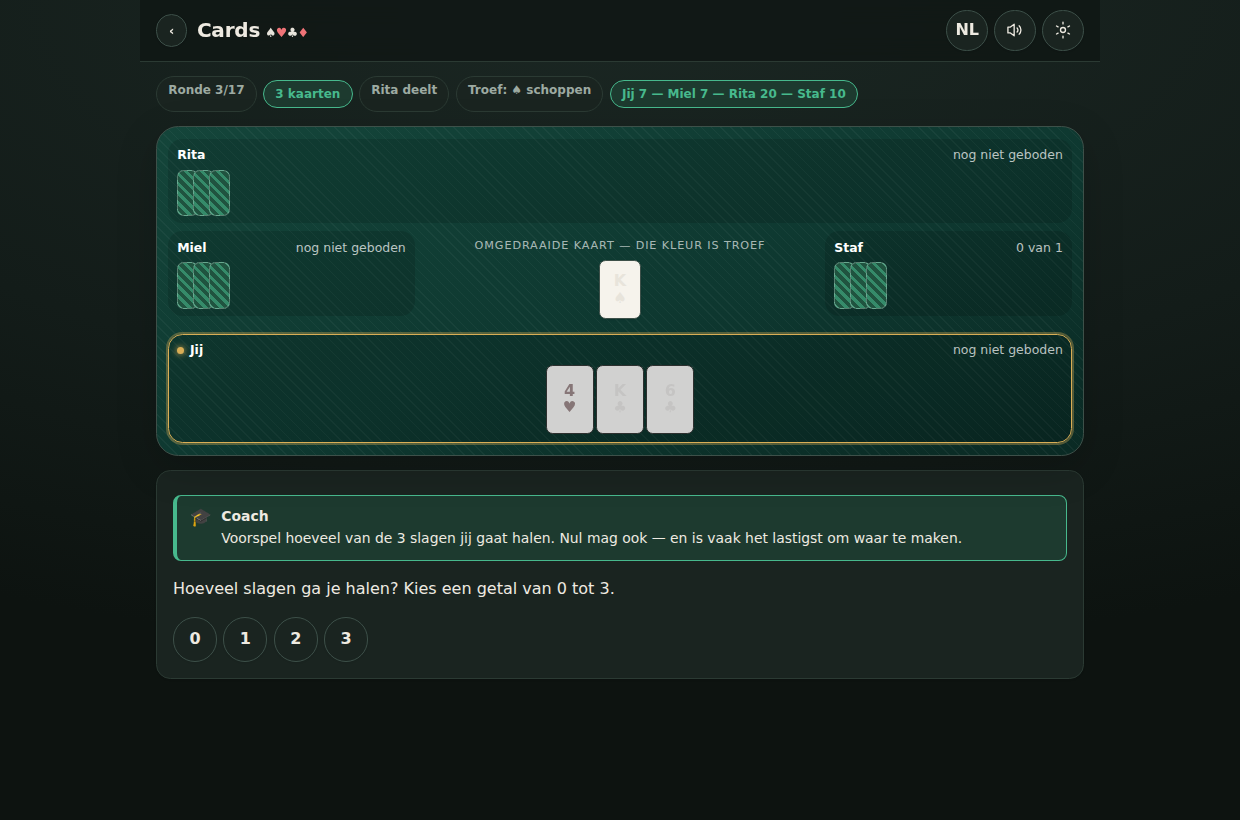
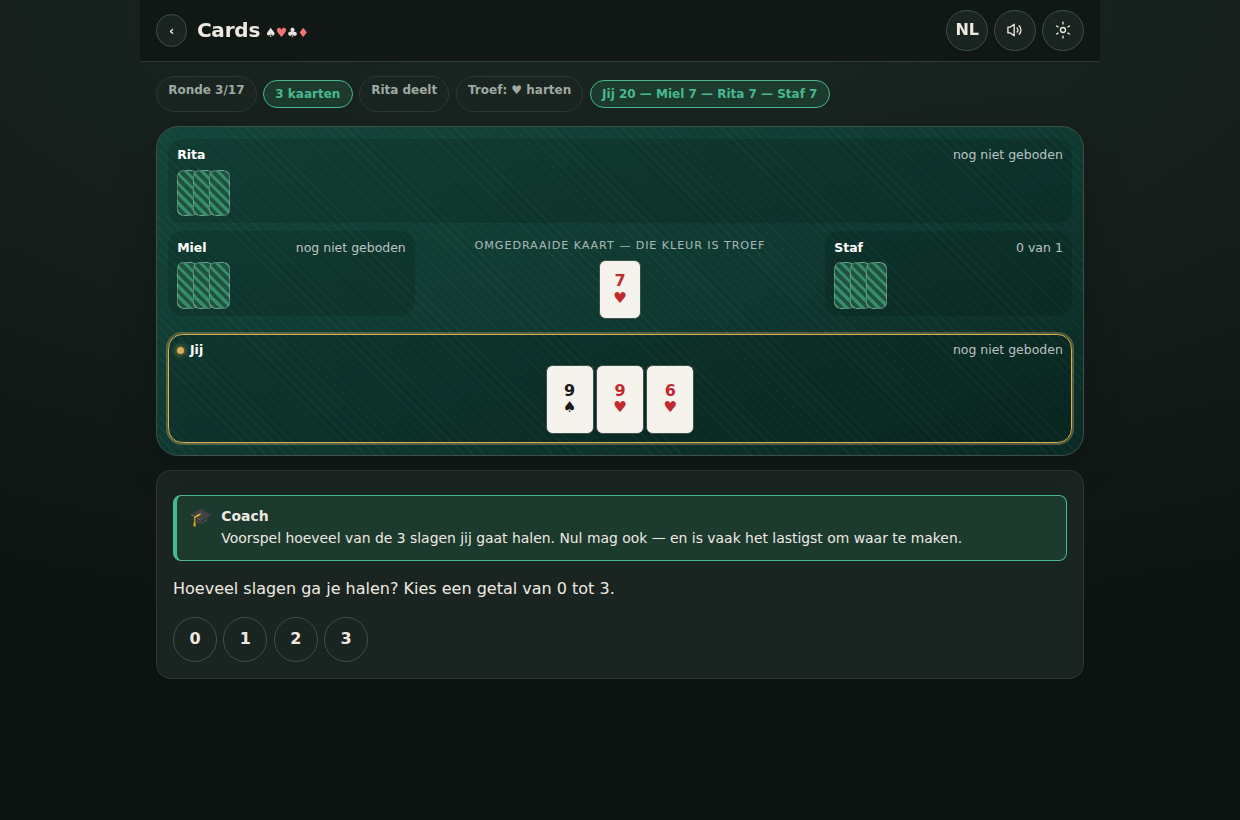
fix(cards): kaarten houden hun kleur wanneer je nog niet mag spelen
Niet-speelbare kaarten kregen filter: grayscale(0.85), en dat haalde net het
enige weg wat je op een kaart moet zien: of ze rood of zwart is. Tijdens de
biedronde is je hele hand niet-speelbaar, dus zat je precies op het moment dat
je je hand moet inschatten naar een grijze rij te kijken.

Nu blijft de kleur staan. Een niet-speelbare kaart krijgt een doffer kaartvlak
en een rustige rand; de speelbare kaarten komen een tikje naar voren met een
accentrand — die doen het onderscheid, in plaats van de rest te ontkleuren. En
is er niets speelbaar (biedronde, of een bot aan zet), dan valt er ook niets te
onderscheiden: dan blijft de hand gewoon zoals ze is.

Daarbij een tweede, ergere: in het donkere thema stond --suit-black op #e8e4db
terwijl --card-face #f6f3ec is. Een kaartvlak is in béide thema's licht, dus
schoppen en klaveren stonden daar licht op licht — nagenoeg onzichtbaar. De
inkt op een kaart heeft nu eigen tokens (--card-ink, --card-ink-red) buiten de
themablokken; --suit-* blijft voor de tekens op de pagina zelf, die wél met het
thema mee moeten.

Nagemeten in de gebouwde app: rode kaart = rgb(192, 42, 47) in beide fasen,
filter = none.

Cache naar cards-v14.

Claude-Session: https://claude.ai/code/session_01MgRtQzS8fjuh9rrNQPLfzZ

Changed region(s): [[0.429, 0.4268, 0.5823, 0.5488], [0.429, 0.0915, 0.7048, 0.122], [0.4903, 0.3354, 0.521, 0.3659]]

diff --git a/cards/src/styles.css b/cards/src/styles.css
@@ -17,6 +17,11 @@
   --shadow-sm: 0 1px 2px rgb(0 0 0 / 8%);
   --shadow: 0 4px 16px rgb(0 0 0 / 12%);
   --shadow-lg: 0 12px 40px rgb(0 0 0 / 18%);
+  /* Inkt op een kaartvlak. Buiten de themablokken, want een kaart is in beide
+     thema's licht: met de donkere --suit-black (#e8e4db) stonden schoppen en
+     klaveren licht op licht en waren ze zo goed als onzichtbaar. */
+  --card-ink: #1b1a19;
+  --card-ink-red: #c02a2f;
 }
 
 :root[data-theme='light'] {
@@ -1105,7 +1110,7 @@ details.settings[open] > summary {
   border: 1px solid var(--border-strong);
   border-radius: 0.42rem;
   background: var(--card-face);
-  color: var(--suit-black);
+  color: var(--card-ink);
   font: inherit;
   font-weight: 700;
   line-height: 1;
@@ -1125,7 +1130,7 @@ details.settings[open] > summary {
 }
 
 .card.red {
-  color: var(--suit-red);
+  color: var(--card-ink-red);
 }
 
 /* Speelbare kaarten in je eigen hand: groter en duidelijk aanraakbaar.
@@ -1144,25 +1149,38 @@ details.settings[open] > summary {
 
 button.card:not(:disabled) {
   cursor: pointer;
+  transform: translateY(-4px);
   border-color: var(--accent);
   box-shadow:
-    0 2px 8px rgb(0 0 0 / 22%),
-    inset 0 0 0 2px color-mix(in srgb, var(--accent) 22%, transparent);
+    0 4px 10px rgb(0 0 0 / 26%),
+    inset 0 0 0 2px color-mix(in srgb, var(--accent) 30%, transparent);
 }
 
 button.card:not(:disabled):hover,
 button.card:not(:disabled):focus-visible {
-  transform: translateY(-5px);
-  box-shadow: 0 8px 18px rgb(0 0 0 / 28%);
+  transform: translateY(-9px);
+  box-shadow: 0 10px 20px rgb(0 0 0 / 30%);
   outline: none;
 }
 
-/* Niet-speelbare kaarten blijven dekkend (anders schijnt het vilt erdoor) maar
-   duidelijk grijzer, zodat de speelbare kaarten meteen opvallen. */
+/* Niet-speelbare kaarten blijven dekkend (anders schijnt het vilt erdoor) en
+   herkenbaar. Hier stond grayscale(0.85), en dat haalde net het enige weg wat
+   je op een kaart écht moet zien: of ze rood of zwart is. Tijdens de biedronde
+   is je hele hand niet-speelbaar, dus zat je precies op het moment dat je je
+   hand moet inschatten naar een grijze rij te kijken. Nu een doffer kaartvlak
+   en een rustige rand; de kleur blijft. */
 button.card:disabled {
-  filter: grayscale(0.85) brightness(0.86);
+  background: color-mix(in srgb, var(--card-face) 74%, var(--border));
   border-color: var(--border);
   box-shadow: none;
+}
+
+/* Is er niets speelbaar (biedronde, of een bot aan zet), dan valt er ook niets
+   te onderscheiden — dan blijft de hand gewoon zoals ze is. */
+.hand:not(:has(button.card:not(:disabled))) button.card:disabled {
+  background: var(--card-face);
+  border-color: var(--border-strong);
+  box-shadow: var(--shadow-sm);
 }
 
 /* Hartenjagen: de drie kaarten die je klaarlegt om door te geven. Ze moeten er
@@ -1832,7 +1850,7 @@ main.hero {
     color-mix(in srgb, var(--gold) 30%, var(--card-face))
   );
   border-color: var(--gold);
-  color: color-mix(in srgb, var(--suit-black) 82%, var(--gold));
+  color: color-mix(in srgb, var(--card-ink) 82%, var(--gold));
 }
 
 .card.trump .card-suit {

diff --git a/cards/public/sw.js b/cards/public/sw.js
@@ -4,7 +4,7 @@
 // Bij elke release opgehoogd: oude clients gooien hun cache weg zodra de nieuwe
 // service worker actief wordt (zie de 'activate'-handler hieronder). Zonder dat
 // bleef een geïnstalleerde app op een oude bundel hangen.
-const CACHE = 'cards-v13';
+const CACHE = 'cards-v14';
 
 self.addEventListener('install', () => {
   self.skipWaiting();
